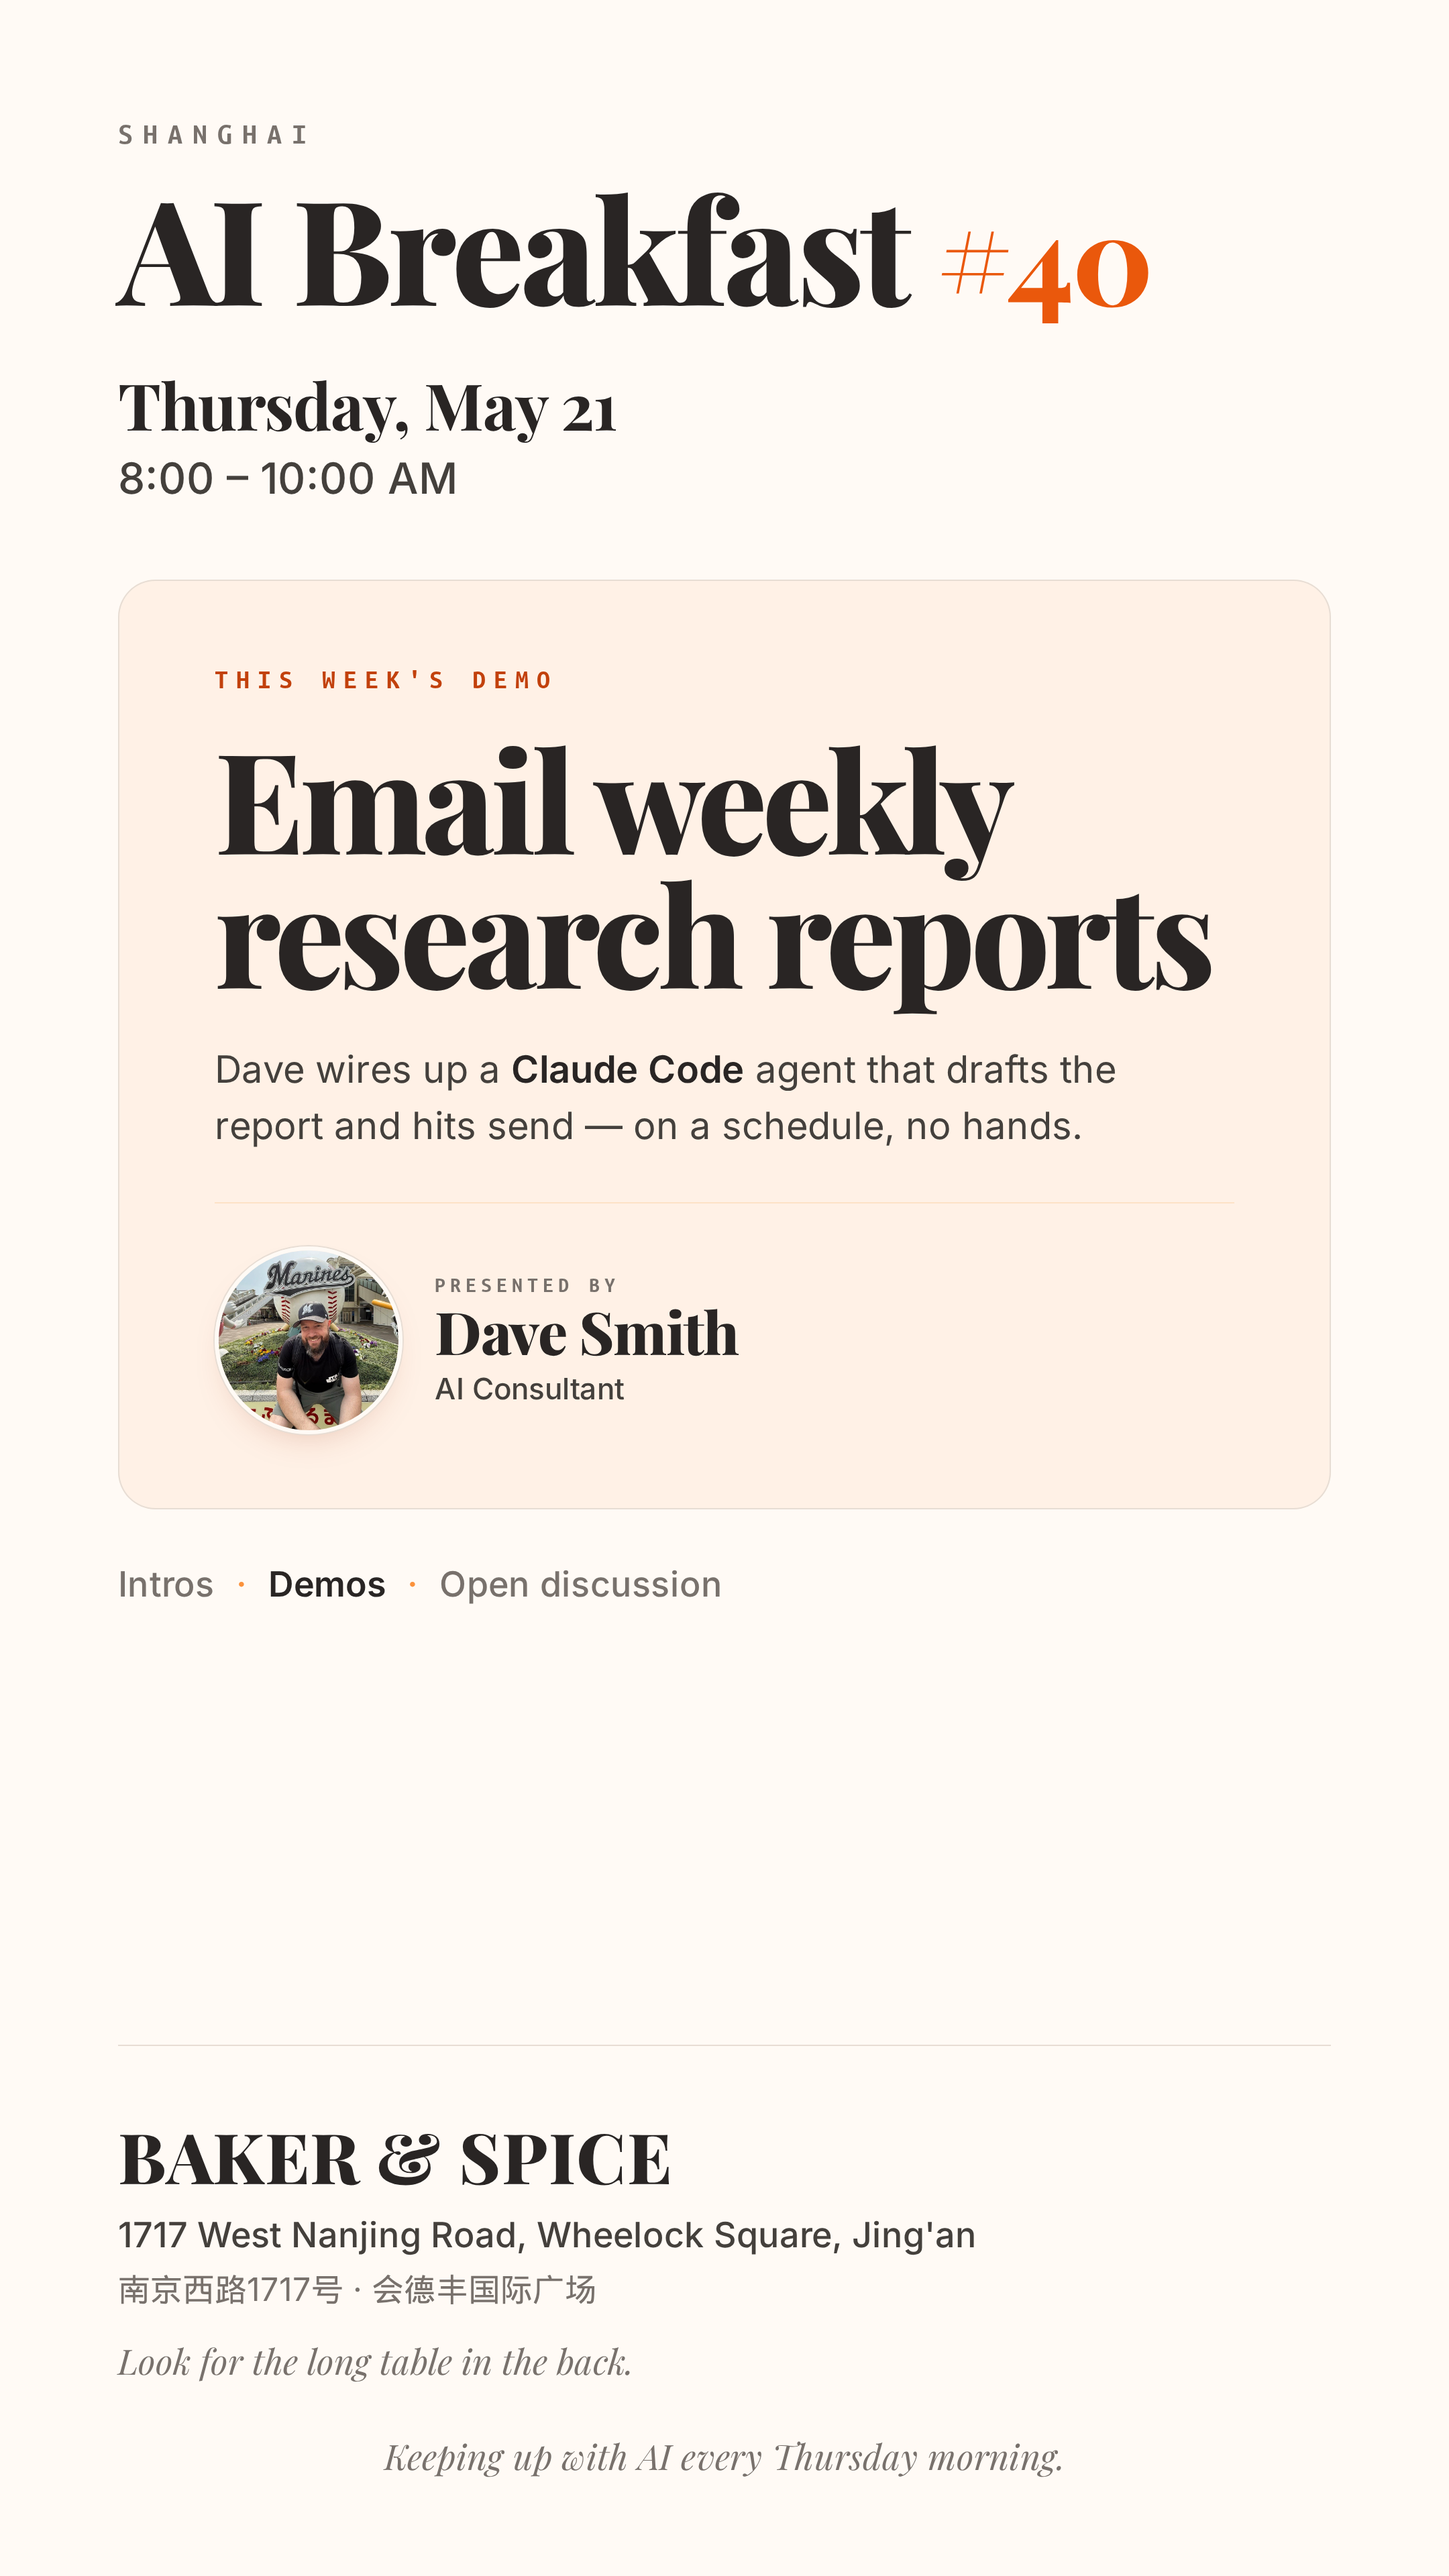
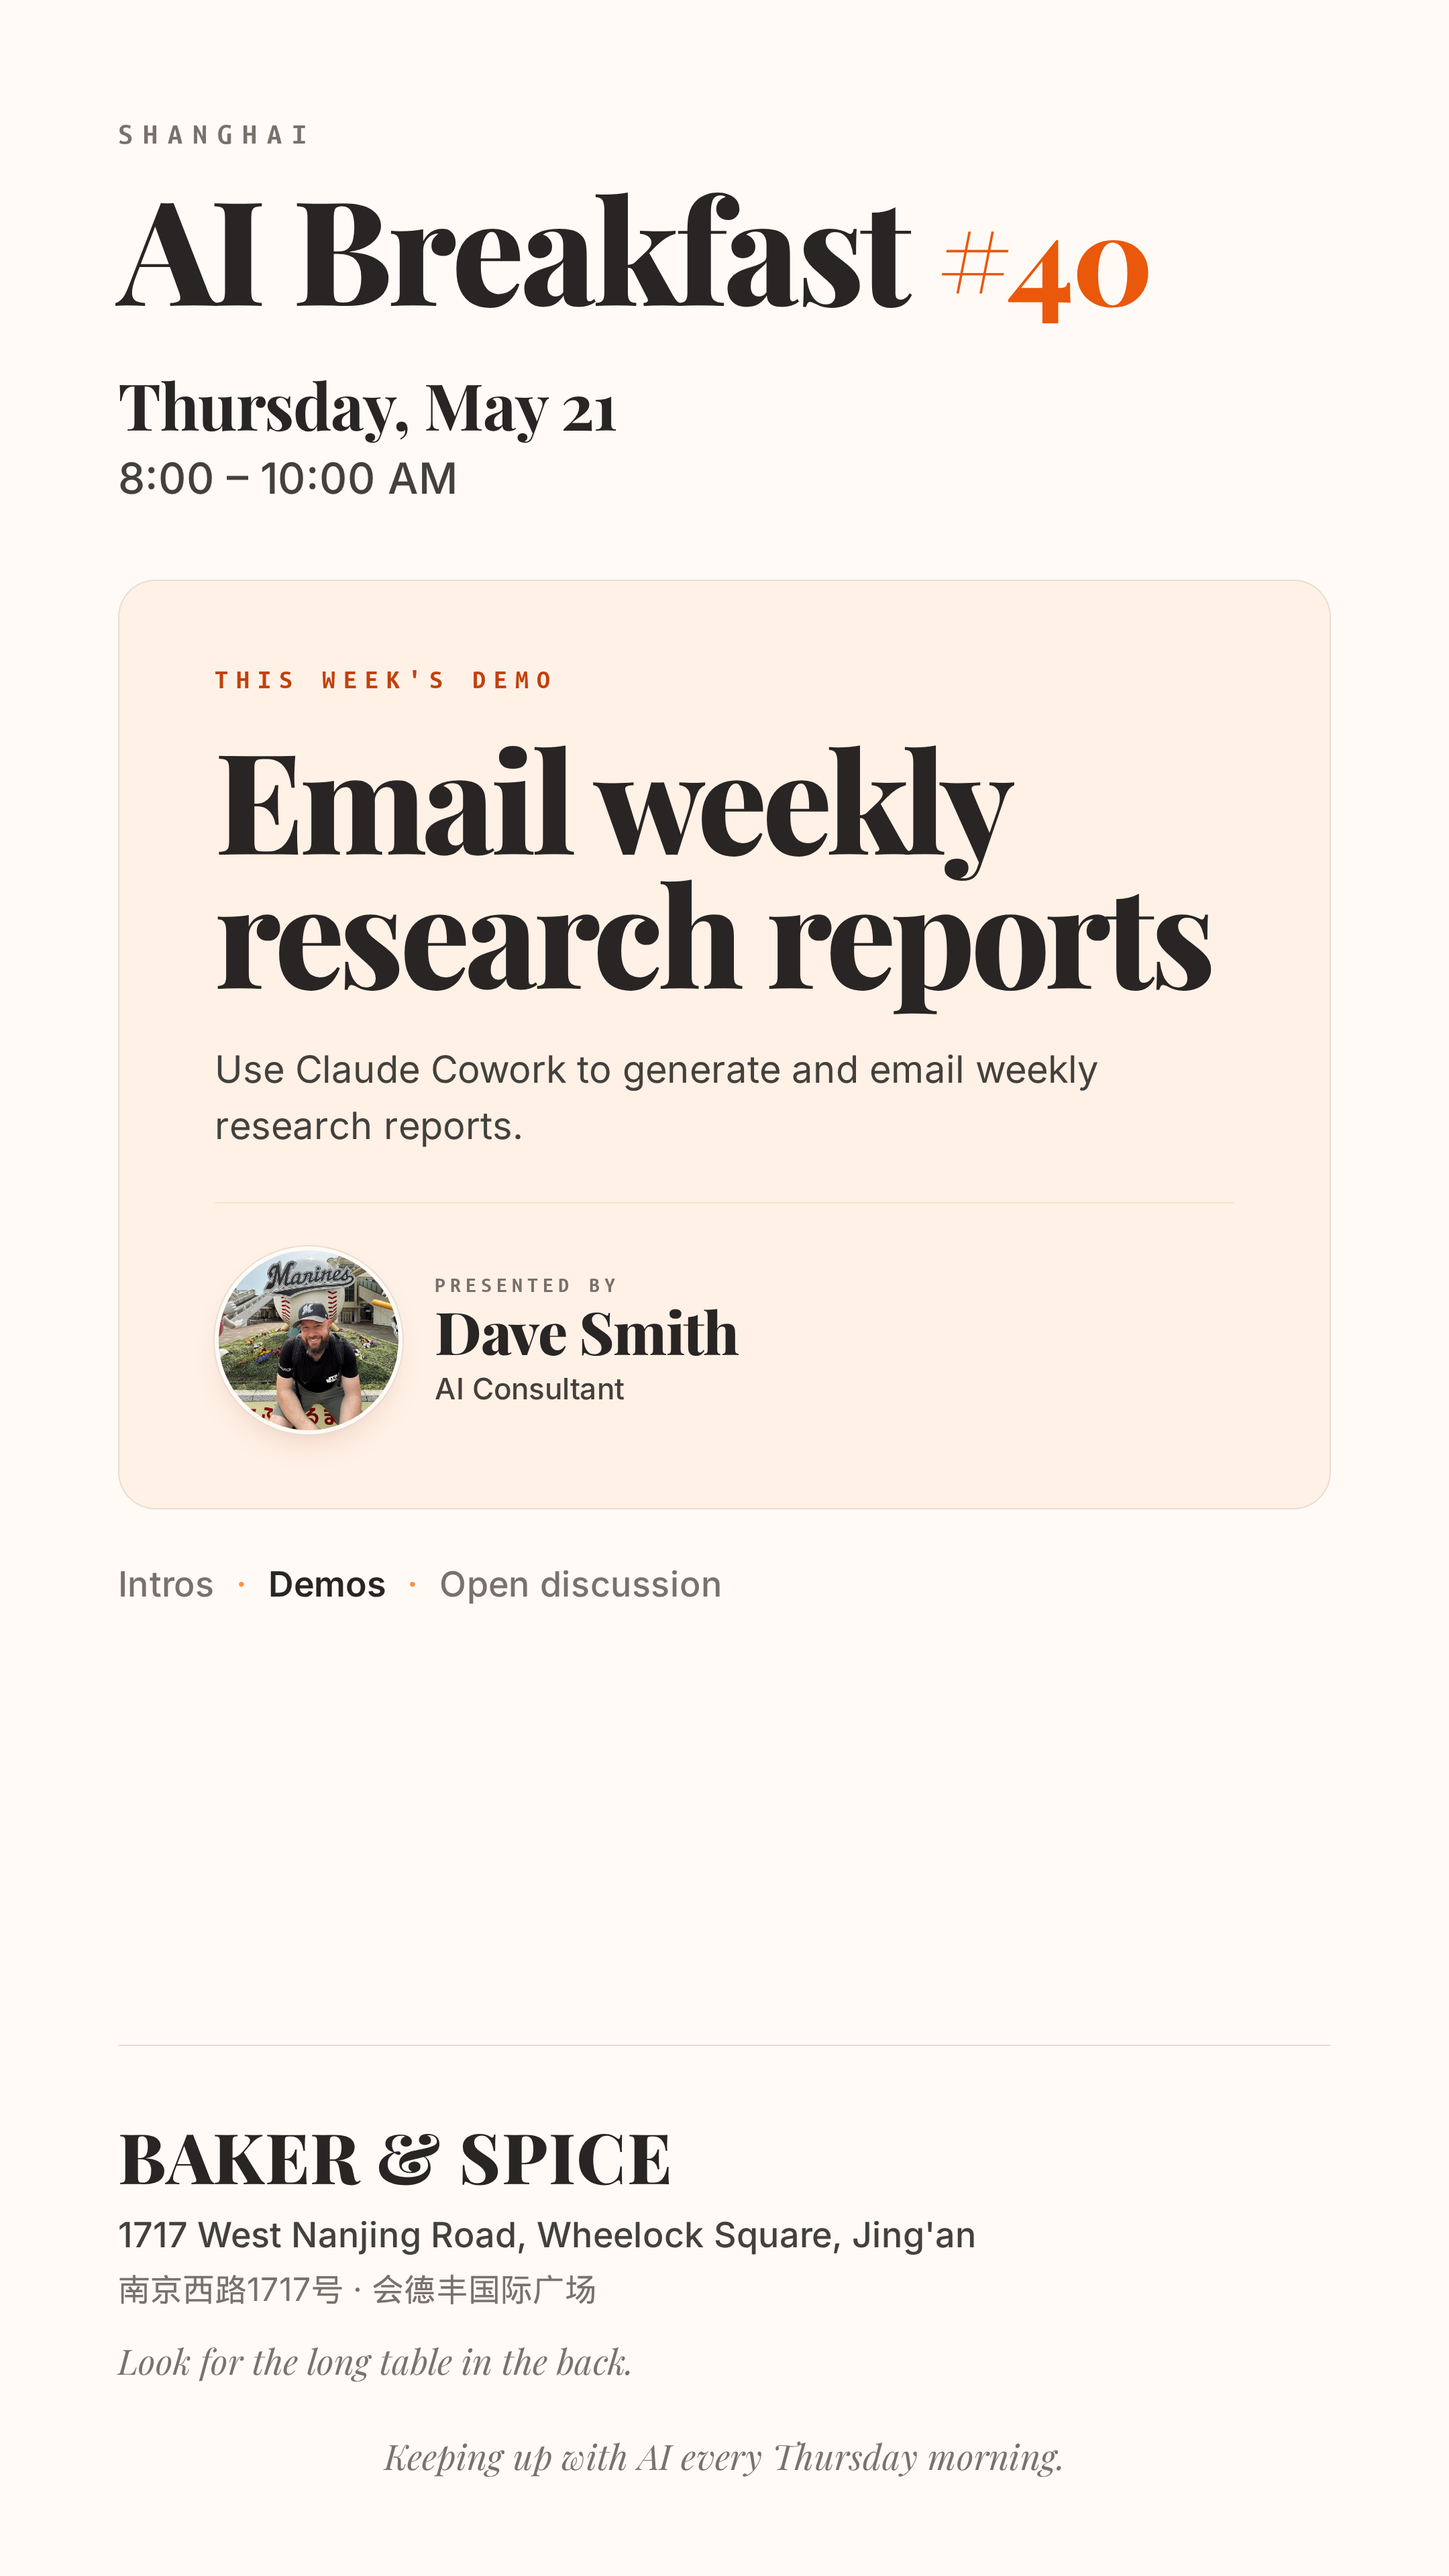
Add AI Breakfast #40 promotional materials and update demo details
- Introduced a new HTML banner (banner-v2.html) for AI Breakfast #40, featuring updated styles and layout.
- Updated event.md to reflect the correct demo description, changing "Claude Code" to "Claude Cowork."
- Revised promotional posters (poster-v2.html, poster-v2-qr.html) to include the updated demo information.
- Added new graphics for the event, including banner and poster images.

Changed region(s): [[0.1551, 0.4062, 0.7755, 0.4375]]

diff --git a/events/2026/ai-breakfast-40/banner-v2.html b/events/2026/ai-breakfast-40/banner-v2.html
@@ -1,0 +1,269 @@
+<!doctype html>
+<html lang="en">
+  <head>
+    <meta charset="utf-8" />
+    <title>AI Breakfast #40 — Banner v2</title>
+    <link rel="preconnect" href="https://fonts.googleapis.com" />
+    <link rel="preconnect" href="https://fonts.gstatic.com" crossorigin />
+    <link
+      href="https://fonts.googleapis.com/css2?family=Playfair+Display:ital,wght@0,400;0,700;0,800;0,900;1,400;1,700&family=Inter:wght@400;500;600;700;800&family=Ubuntu+Mono:wght@400;700&display=swap"
+      rel="stylesheet"
+    />
+    <style>
+      :root {
+        --warm-white: #fffaf5;
+        --peach-50: #fff1e6;
+        --peach-100: #fde2c7;
+        --border: #e7ddd4;
+        --terracotta: #c2410c;
+        --flame: #ea580c;
+        --burnt: #9a3412;
+        --peach: #fb923c;
+        --stone-900: #292524;
+        --stone-700: #44403c;
+        --stone-500: #78716c;
+        --stone-400: #a8a29e;
+
+        --font-display: "Playfair Display", Georgia, serif;
+        --font-sans: "Inter", -apple-system, BlinkMacSystemFont, sans-serif;
+        --font-mono: "Ubuntu Mono", "SF Mono", Menlo, monospace;
+      }
+
+      * { box-sizing: border-box; margin: 0; padding: 0; -webkit-font-smoothing: antialiased; }
+      html, body { background: #0c0a09; }
+
+      .banner {
+        width: 1080px;
+        height: 640px;
+        background: var(--warm-white);
+        position: relative;
+        overflow: hidden;
+        font-family: var(--font-sans);
+        color: var(--stone-900);
+        display: flex;
+      }
+
+      .left {
+        flex: 1;
+        padding: 56px 48px 56px 64px;
+        display: flex;
+        flex-direction: column;
+        justify-content: space-between;
+        min-width: 0;
+      }
+
+      .right {
+        width: 460px;
+        background: var(--peach-50);
+        padding: 56px 48px 56px;
+        display: flex;
+        flex-direction: column;
+        justify-content: space-between;
+        border-left: 1px solid var(--border);
+        min-width: 0;
+      }
+
+      /* ===== Masthead ===== */
+      .eyebrow {
+        font-family: var(--font-mono);
+        font-size: 18px;
+        font-weight: 700;
+        letter-spacing: 0.34em;
+        text-transform: uppercase;
+        color: var(--stone-500);
+      }
+      .title-row {
+        margin-top: 14px;
+        display: flex;
+        align-items: baseline;
+        gap: 16px;
+        flex-wrap: nowrap;
+      }
+      .title {
+        font-family: var(--font-display);
+        font-weight: 800;
+        font-size: 76px;
+        line-height: 1;
+        letter-spacing: -0.025em;
+        color: var(--stone-900);
+        white-space: nowrap;
+      }
+      .issue {
+        font-family: var(--font-display);
+        font-weight: 800;
+        font-size: 66px;
+        line-height: 1;
+        color: var(--flame);
+        letter-spacing: -0.02em;
+        white-space: nowrap;
+      }
+
+      .datestack {
+        margin-top: 28px;
+      }
+      .datestack .d {
+        font-family: var(--font-display);
+        font-weight: 700;
+        font-size: 38px;
+        line-height: 1;
+        letter-spacing: -0.015em;
+        color: var(--stone-900);
+      }
+      .datestack .t {
+        margin-top: 10px;
+        font-family: var(--font-sans);
+        font-size: 24px;
+        font-weight: 500;
+        color: var(--stone-700);
+      }
+
+      /* ===== Venue (bottom of left) ===== */
+      .venue {
+        border-top: 1px solid var(--border);
+        padding-top: 22px;
+      }
+      .venue-name {
+        font-family: var(--font-display);
+        font-weight: 800;
+        font-size: 30px;
+        letter-spacing: 0.015em;
+        color: var(--stone-900);
+        text-transform: uppercase;
+        line-height: 1;
+      }
+      .venue-addr {
+        margin-top: 8px;
+        font-family: var(--font-sans);
+        font-size: 18px;
+        line-height: 1.4;
+        color: var(--stone-700);
+        font-weight: 500;
+      }
+      .venue-cn {
+        margin-top: 4px;
+        font-family: var(--font-sans);
+        font-size: 16px;
+        line-height: 1.4;
+        color: var(--stone-500);
+      }
+
+      /* ===== Right column ===== */
+      .demo-label {
+        font-family: var(--font-mono);
+        font-size: 14px;
+        font-weight: 700;
+        letter-spacing: 0.30em;
+        text-transform: uppercase;
+        color: var(--terracotta);
+      }
+      .demo-title {
+        margin-top: 18px;
+        font-family: var(--font-display);
+        font-weight: 800;
+        font-size: 40px;
+        line-height: 1.04;
+        letter-spacing: -0.025em;
+        color: var(--stone-900);
+      }
+      .demo-blurb {
+        margin-top: 18px;
+        font-family: var(--font-sans);
+        font-size: 17px;
+        line-height: 1.5;
+        color: var(--stone-700);
+        font-weight: 400;
+      }
+      .demo-blurb em {
+        font-style: normal;
+        font-weight: 600;
+        color: var(--stone-900);
+      }
+
+      .byline {
+        margin-top: 24px;
+        display: flex;
+        align-items: center;
+        gap: 16px;
+        padding-top: 22px;
+        border-top: 1px solid var(--peach-100);
+      }
+      .byline img {
+        width: 64px;
+        height: 64px;
+        border-radius: 999px;
+        object-fit: cover;
+        object-position: center 35%;
+        flex-shrink: 0;
+        border: 2px solid var(--warm-white);
+        box-shadow: 0 0 0 1px var(--border),
+          0 8px 18px -10px rgba(154, 52, 18, 0.35);
+      }
+      .byline .meta { display: flex; flex-direction: column; gap: 2px; }
+      .byline .kicker {
+        font-family: var(--font-mono);
+        font-size: 11px;
+        font-weight: 700;
+        letter-spacing: 0.22em;
+        text-transform: uppercase;
+        color: var(--stone-500);
+      }
+      .byline .name {
+        font-family: var(--font-display);
+        font-weight: 800;
+        font-size: 24px;
+        line-height: 1;
+        letter-spacing: -0.015em;
+        color: var(--stone-900);
+        margin-top: 2px;
+      }
+      .byline .role {
+        margin-top: 2px;
+        font-family: var(--font-sans);
+        font-size: 14px;
+        font-weight: 500;
+        color: var(--stone-700);
+      }
+    </style>
+  </head>
+  <body>
+    <div class="banner">
+      <div class="left">
+        <div>
+          <div class="eyebrow">Shanghai</div>
+          <div class="title-row">
+            <div class="title">AI Breakfast</div>
+            <div class="issue">#40</div>
+          </div>
+          <div class="datestack">
+            <div class="d">Thursday, May 21</div>
+            <div class="t">8:00 – 10:00 AM</div>
+          </div>
+        </div>
+
+        <div class="venue">
+          <div class="venue-name">Baker &amp; Spice</div>
+          <div class="venue-addr">1717 West Nanjing Road, Wheelock Square, Jing'an</div>
+          <div class="venue-cn">南京西路1717号 · 会德丰国际广场</div>
+        </div>
+      </div>
+
+      <div class="right">
+        <div>
+          <div class="demo-label">This week's demo</div>
+          <div class="demo-title">Email weekly research reports</div>
+          <div class="demo-blurb">
+            Use <em>Claude Cowork</em> to generate and email weekly research reports.
+          </div>
+        </div>
+        <div class="byline">
+          <img src="images/speakers/dave.jpeg" alt="Dave Smith" />
+          <div class="meta">
+            <div class="kicker">Presented by</div>
+            <div class="name">Dave Smith</div>
+            <div class="role">AI Consultant</div>
+          </div>
+        </div>
+      </div>
+    </div>
+  </body>
+</html>

diff --git a/events/2026/ai-breakfast-40/poster-v2-qr.html b/events/2026/ai-breakfast-40/poster-v2-qr.html
@@ -306,7 +306,7 @@
           <div class="card-label">This week's demo</div>
           <div class="card-title">Email weekly research reports</div>
           <div class="card-blurb">
-            Dave wires up a <em>Claude Code</em> agent that drafts the report and hits send — on a schedule, no hands.
+            Use Claude Cowork to generate and email weekly research reports.
           </div>
           <div class="byline">
             <img src="images/speakers/dave.jpeg" alt="Dave Smith" />

diff --git a/events/2026/ai-breakfast-40/poster-v2.html b/events/2026/ai-breakfast-40/poster-v2.html
@@ -274,7 +274,7 @@
           <div class="card-label">This week's demo</div>
           <div class="card-title">Email weekly research reports</div>
           <div class="card-blurb">
-            Dave wires up a <em>Claude Code</em> agent that drafts the report and hits send — on a schedule, no hands.
+            Use Claude Cowork to generate and email weekly research reports.
           </div>
           <div class="byline">
             <img src="images/speakers/dave.jpeg" alt="Dave Smith" />

diff --git a/events/2026/ai-breakfast-40/event.md b/events/2026/ai-breakfast-40/event.md
@@ -11,12 +11,12 @@
 
 **Speaker:** Dave Smith
 **Title:** AI Consultant (placeholder — Dave will update)
-**Demo:** How he used Claude Code to automate a weekly research report that gets emailed out.
+**Demo:** Use Claude Cowork to generate and email weekly research reports.
 
 ## Agenda
 
 - Intros
-- Dave's demo: Claude Code → automated weekly research report email
+- Dave's demo: Claude Cowork → automated weekly research report email
 - Open discussion
 
 ## Notes
